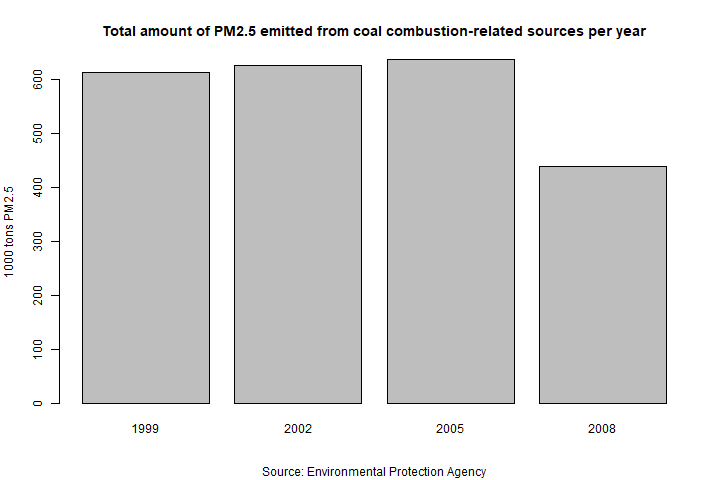
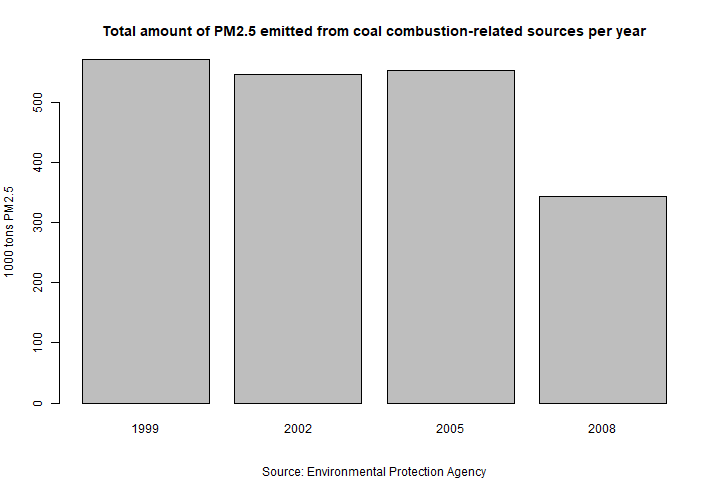
fixed issue in plot 4

diff --git a/README.md b/README.md
@@ -25,7 +25,7 @@ Question 4:
 Across the United States, how have emissions from coal combustion-related sources changed from 1999-2008?
 
 Answer:
-While there was a small increase from 1999 to 2005, the 2008 records show a significant drop in PM2.5 emitted by coal combustion.
+While there were only small changes between 1999 and 2005, the 2008 records show a significant drop in PM2.5 emitted by coal combustion.
 
 
 Question 5:
